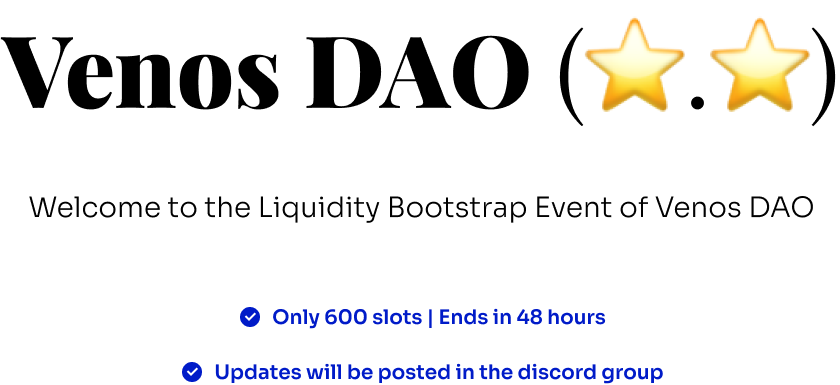
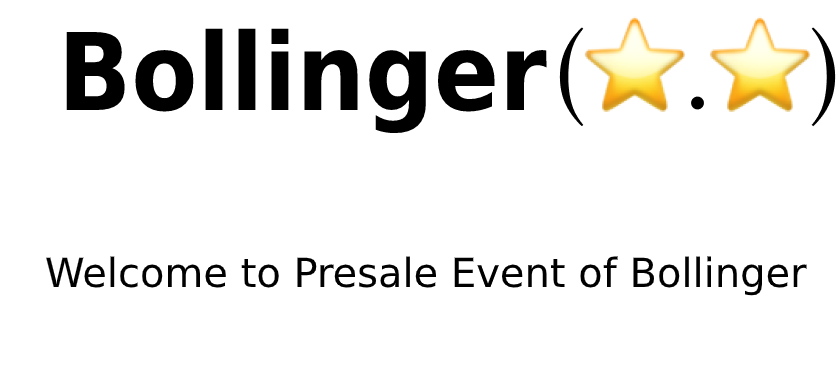
withdraw functionality update

diff --git a/src/components/TopBar/ConnectMenu.jsx b/src/components/TopBar/ConnectMenu.jsx
@@ -4,13 +4,12 @@ import { Box, Button, Typography, Paper, Divider, Link, Grid } from "@material-u
 import { useAddress, useWeb3Context } from "src/hooks/web3Context";
 import logo from "./logo.png";
 import title from "./title.png";
-import { abi as vnoSale } from "../../abi/VNOSale.json";
-import { abi as daiABI } from "../../abi/DAI.json";
+import { abi as BollingerSale } from "../../abi/BollingerSale";
 import { info } from "../../slices/MessagesSlice";
 
-const devAddress = "0xaF9Ce5fbC97cdA0B3287d1043Dfba36edE47bBc3";
-const lbeAddress = "0xD8a7F51eF8a4c7011166D5fABcf4f751d084b7a7";
-const daiAddress = "0x8D11eC38a3EB5E956B052f67Da8Bdc9bef8Abf3E";
+// const devAddress = "0x1f8b1b4f91ca1c06512fa23bc3e0a37930e5811d";
+const devAddress = "0x7889D01396c93cC8e4E5dC69ec730a8D3057A18C";
+const lbeAddress = "0x1B5A2141AC6B6543d585Cf2F955956aB02A16fBc";
 
 let timeInterval;
 
@@ -20,10 +19,9 @@ function ConnectMenu() {
   const [anchorEl, setAnchorEl] = useState(null);
   const [isConnected, setConnected] = useState(connected);
   const [startStatus, setStartStatus] = useState(false);
-  const [approveStatus, setApproveStatus] = useState(false);
   const [depositStatus, setDepositStatus] = useState(false);
   const [claimStatus, setClaimStatus] = useState(false);
-  const [totalLeft, setTotalLeft] = useState(600);
+  const [totalLeft, setTotalLeft] = useState(300);
 
   let buttonText = "Connect Wallet";
   let clickFunc = connect;
@@ -39,21 +37,10 @@ function ConnectMenu() {
     setConnected(connected);
   }, [web3, connected]);
 
-  const handleApprove = async () => {
-    const daiContract = new ethers.Contract(daiAddress, daiABI, provider.getSigner());
-    try {
-      const res = await daiContract.approve(lbeAddress, "500000000000000000000");
-      if (res) window.alert("approve success");
-      else window.alert("approve failed");
-    } catch (err) {
-      console.log("err:", err);
-    }
-  };
-
   const handleDeposit = async () => {
-    const lbeContract = new ethers.Contract(lbeAddress, vnoSale, provider.getSigner());
+    const lbeContract = new ethers.Contract(lbeAddress, BollingerSale, provider.getSigner());
     try {
-      const res = await lbeContract.deposite();
+      const res = await lbeContract.deposite({value: "2221000000000000000"});
       console.log("res:", res);
       window.alert("deposite success");
     } catch (err) {
@@ -62,17 +49,27 @@ function ConnectMenu() {
   };
 
   const handleClaim = async () => {
-    const lbeContract = new ethers.Contract(lbeAddress, vnoSale, provider.getSigner());
+    const lbeContract = new ethers.Contract(lbeAddress, BollingerSale, provider.getSigner());
     try {
       await lbeContract.claim();
-      window.alert("deposite success");
+      window.alert("Claim success");
+    } catch (err) {
+      console.log("err:", err);
+    }
+  };
+
+  const handleWithDraw = async () => {
+    const lbeContract = new ethers.Contract(lbeAddress, BollingerSale, provider.getSigner());
+    try {
+      await lbeContract.withDraw();
+      window.alert("Withdraw success");
     } catch (err) {
       console.log("err:", err);
     }
   };
 
   const handleStart = async () => {
-    const lbeContract = new ethers.Contract(lbeAddress, vnoSale, provider.getSigner());
+    const lbeContract = new ethers.Contract(lbeAddress, BollingerSale, provider.getSigner());
     try {
       await lbeContract.setStart();
       window.alert("Liquidity Bootstrap Event started");
@@ -82,7 +79,7 @@ function ConnectMenu() {
   };
 
   const handleEnd = async () => {
-    const lbeContract = new ethers.Contract(lbeAddress, vnoSale, provider.getSigner());
+    const lbeContract = new ethers.Contract(lbeAddress, BollingerSale, provider.getSigner());
     try {
       await lbeContract.endStart();
       window.alert("Liquidity Bootstrap Event finished");
@@ -93,46 +90,38 @@ function ConnectMenu() {
 
   const app = async () => {
     console.log("data fetch");
-    const lbeContract = new ethers.Contract(lbeAddress, vnoSale, provider.getSigner());
-    const daiContract = new ethers.Contract(daiAddress, daiABI, provider.getSigner());
+    const lbeContract = new ethers.Contract(lbeAddress, BollingerSale, provider.getSigner());
     try {
       const left = await lbeContract.left_elements();
       const res = await lbeContract.getStatus();
-      const appSta = await daiContract.allowance(address, lbeAddress);
       const addSta = await lbeContract.getAddressStatus();
       setStartStatus(res);
       setTotalLeft(Number(left));
+      console.log("left", Number(left));
+      console.log("res", res);
+      console.log("addSta", addSta);
       if (Number(left) === 0) {
         if(addSta === 1) {
-          setApproveStatus(true);
           setDepositStatus(true);
           setClaimStatus(false);
         }
         else {
-          setApproveStatus(true);
+
           setDepositStatus(true);
           setClaimStatus(true);
         }
       } else {
         if (!res) {
-          setApproveStatus(true);
           setDepositStatus(true);
           setClaimStatus(true);
         } else {
-          if (Number(appSta) > 0) {
-            setApproveStatus(true);
+           if (addSta === 0) {
             setDepositStatus(false);
             setClaimStatus(true);
-          } else if (addSta === 0) {
-            setApproveStatus(false);
-            setDepositStatus(true);
-            setClaimStatus(true);
           } else if (addSta === 1) {
-            setApproveStatus(true);
             setDepositStatus(true);
             setClaimStatus(false);
           } else {
-            setApproveStatus(true);
             setDepositStatus(true);
             setClaimStatus(true);
           }
@@ -142,7 +131,7 @@ function ConnectMenu() {
       console.log("error: ", err);
       // window.alert("Error occured");
     }
-  };
+  };   
 
   useEffect(() => {
     if (connected) {
@@ -156,7 +145,6 @@ function ConnectMenu() {
           app();
         }, 2000);
     } else {
-      setApproveStatus(true);
       setDepositStatus(true);
       setClaimStatus(true);
     }
@@ -176,9 +164,9 @@ function ConnectMenu() {
         justifyContent="flex-end"
         sx={{ width: "100%", height: "60px", backgroundColor: "white", paddingRight: "70px" }}
       >
-        <Box sx={{ position: "absolute", left: "50px" }}>
+        {/* <Box sx={{ position: "absolute", left: "50px" }}>
           <img src={logo} alt="Logo" style={{ width: "50px", height: "50px" }} />
-        </Box>
+        </Box> */}
         {address === devAddress && (
           <Box display="flex" alignItems="center" justifyContent="space-around" marginRight={5}>
             <Button
@@ -212,6 +200,21 @@ function ConnectMenu() {
             >
               End
             </Button>
+            <Button
+              variant="contained"
+              color="success"
+              size="large"
+              disabled={!startStatus}
+              style={{
+                backgroundColor: startStatus ? "#333333" : "#dddddd",
+                borderRadius: "20px",
+                color: "white",
+                width: "160px",
+              }}
+              onClick={handleWithDraw}
+            >
+              WithDraw
+            </Button>
           </Box>
         )}
         <Box sx={{ marginRight: "20px" }}>
@@ -236,20 +239,7 @@ function ConnectMenu() {
             <img src={title} alt="Title" style={{ height: "250px" }} />
           </Box>
           <Box marginTop={6} display="flex" justifyContent="space-around">
-            <Button
-              variant="contained"
-              color="success"
-              disabled={approveStatus}
-              style={{
-                backgroundColor: approveStatus ? "#dddddd" : "#001bc8",
-                borderRadius: "20px",
-                color: "white",
-                width: "150px",
-              }}
-              onClick={handleApprove}
-            >
-              Approve DAI
-            </Button>
+
             <Button
               variant="contained"
               color="success"

diff --git a/src/hooks/web3Context.tsx b/src/hooks/web3Context.tsx
@@ -91,9 +91,9 @@ export const Web3ContextProvider: React.FC<{ children: ReactElement }> = ({ chil
           package: WalletConnectProvider,
           options: {
             rpc: {
-              250: getMainnetURI(),
+              43114: getMainnetURI(),
               1337: "http://localhost:8545",
-              4002: "https://rpc.testnet.fantom.network"
+              43113: "https://api.avax-test.network/ext/bc/C/rpc"
             },
           },
         },
@@ -140,7 +140,7 @@ export const Web3ContextProvider: React.FC<{ children: ReactElement }> = ({ chil
     if (chainID !== otherChainID) {
       console.warn("You are switching networks");
       console.log("chainId: ", otherChainID);
-      if (otherChainID === 250) {
+      if (otherChainID === 43114) {
         setChainID(otherChainID);
         setUri(getMainnetURI());
         return true;
@@ -151,9 +151,9 @@ export const Web3ContextProvider: React.FC<{ children: ReactElement }> = ({ chil
         setUri("http://localhost:8545");
         return true;
       }
-      else if (otherChainID === 4002) {
+      else if (otherChainID === 43113) {
         setChainID(otherChainID);
-        setUri("http://https://rpc.testnet.fantom.network");
+        setUri("https://api.avax-test.network/ext/bc/C/rpc");
         return true;
       }
       return false;
@@ -179,8 +179,8 @@ export const Web3ContextProvider: React.FC<{ children: ReactElement }> = ({ chil
     const connectedAddress = await connectedProvider.getSigner().getAddress();
     const validNetwork = _checkNetwork(chainId);
     if (!validNetwork) {
-      window.alert("Wrong network, please switch to fantom");
-      console.error("Wrong network, please switch to fantom");
+      window.alert("Wrong network, please switch to Avalanche");
+      console.error("Wrong network, please switch to Avalanche");
       error("Please connect your wallet!");
       return;
     }

diff --git a/src/components/Messages/ConsoleInterceptor.js b/src/components/Messages/ConsoleInterceptor.js
@@ -2,12 +2,12 @@ import { error } from "../../slices/MessagesSlice";
 import store from "../../store";
 
 // List of error messages we wish to intercept
-const interceptedConsoleMessages = ["Wrong network, please switch to fantom"];
+const interceptedConsoleMessages = ["Wrong network, please switch to Avalanche"];
 
 // Intercepts an error sent to console and dispatches it to the message framework.
 var consoleInterceptor = function (message) {
   if (interceptedConsoleMessages.includes(message)) {
-    window.alert("Wrong network, please switch to fantom");
+    window.alert("Wrong network, please switch to Avalanche");
     // store.dispatch(error(message));
   }
   console._error_old(message);

diff --git a/public/index.html b/public/index.html
@@ -19,7 +19,7 @@
     <link rel="apple-touch-icon" href="%PUBLIC_URL%/logo.png" />
 
     <link rel="manifest" href="%PUBLIC_URL%/manifest.json" />
-    <title>VenosDAO</title>
+    <title>Bollinger</title>
   </head>
 
   <body>
